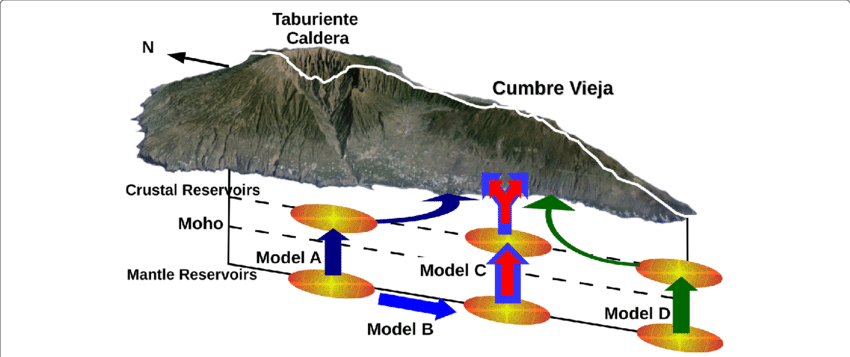
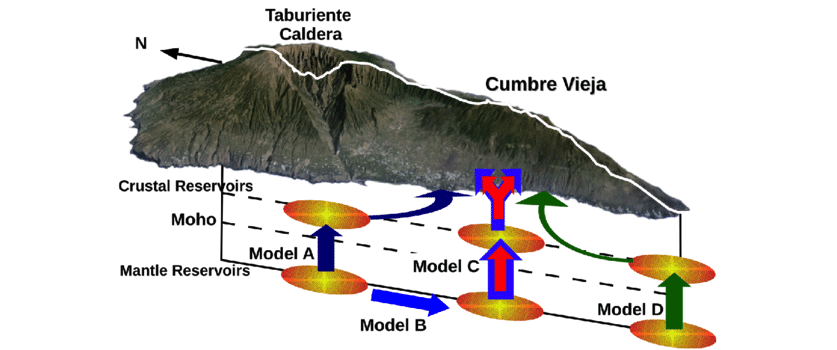
🌃 Update images (remove border) (#4)
* 🌃 Update images (remove border)
* 🔗 Update URLs
* 🐛 Remove title

diff --git a/README.md b/README.md
@@ -1,5 +1,6 @@
 # Notebooks Now! Submission Template
 
+[![Made with MyST](https://img.shields.io/badge/made%20with-myst-orange)](https://franklin-notebooks_now_myst_lite.curve.space)
 [![Binder](https://mybinder.org/badge_logo.svg)](https://mybinder.org/v2/gh/Notebooks-Now/submission-myst-lite/HEAD?labpath=article.ipynb)
 
 This submission template is for a simple notebook-based publication with one source file, supporting data, bibliography, and MyST build configuration.
